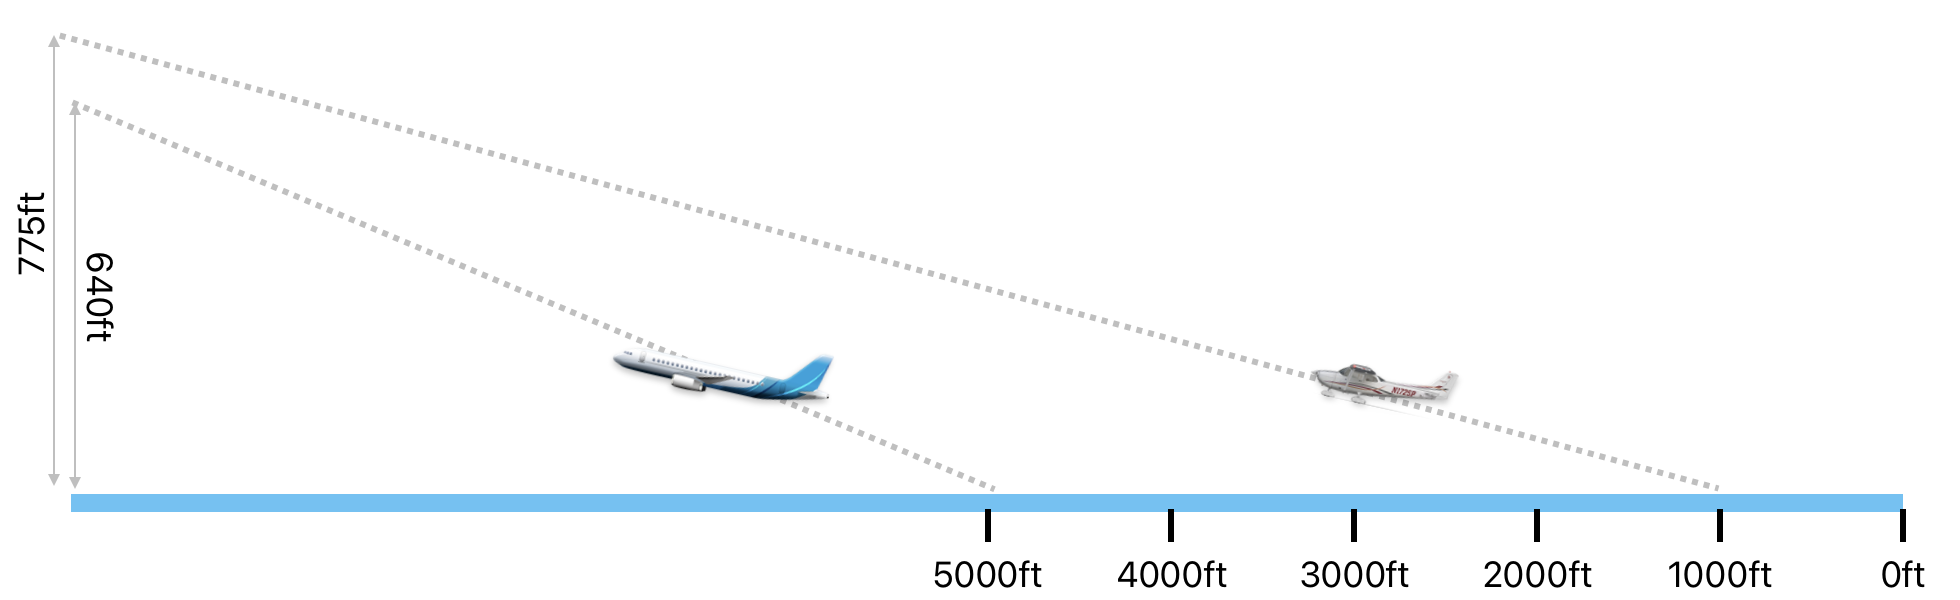
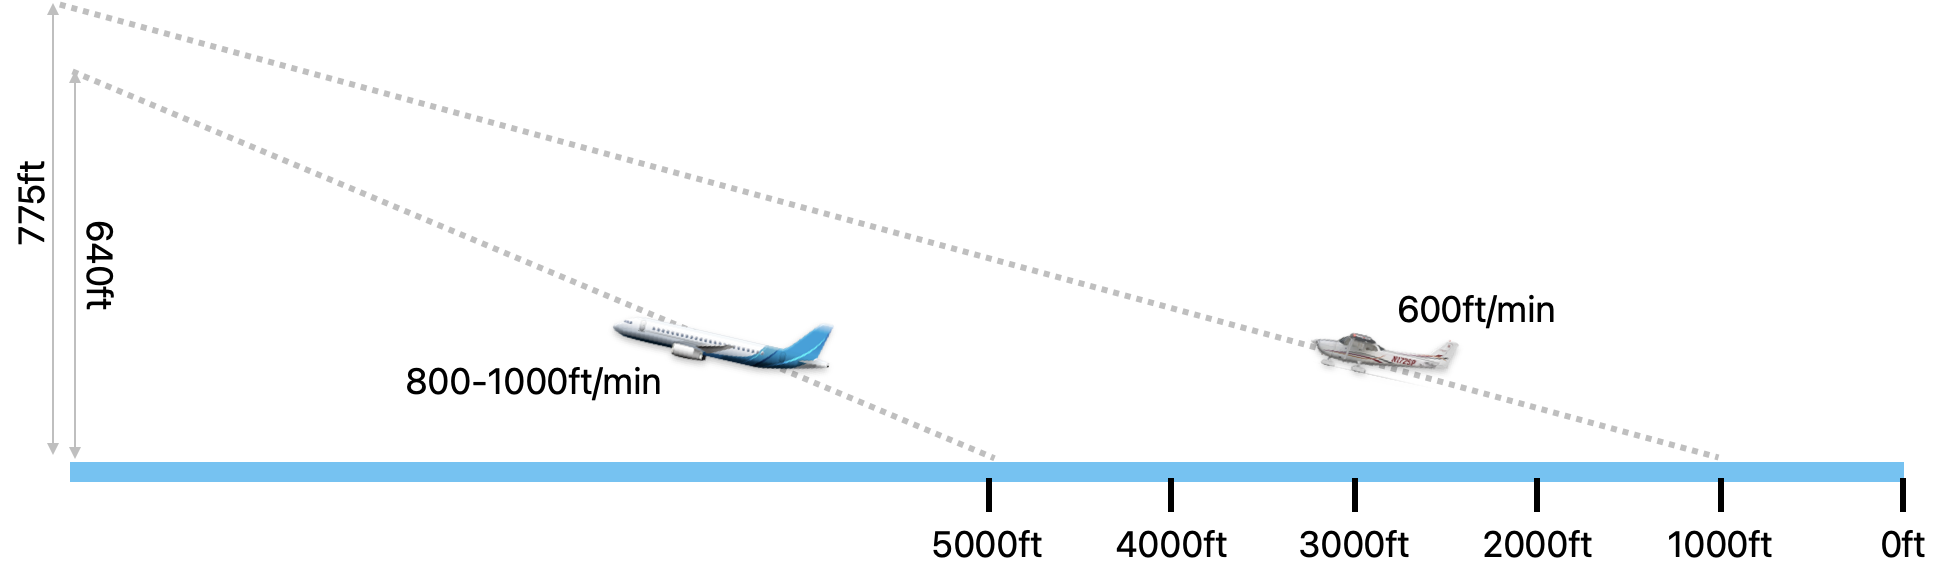
update

diff --git a/themes/aviation.css b/themes/aviation.css
@@ -80,6 +80,10 @@ img[alt~="video"] {
    height: 100%;
 }
 
+white {
+   color: #eeeeee;
+}
+
 red {
    color: red;
 }

diff --git a/topics/aviation/private-pilot/airport-operations/non-towered-airport.md b/topics/aviation/private-pilot/airport-operations/non-towered-airport.md
@@ -9,15 +9,14 @@ theme: aviation
 
 ---
 
+![bg](images/6s9-airport-view.png)
+
+---
+
 ![bg](images/home-town.png)
 
 <!--
 Question: how would you build an airport in your backyard?
-- Runway
-- Wind
-- Traffic pattern
-- Noise abatement
-- Communication
 -->
 --- 
 
@@ -25,7 +24,6 @@ Question: how would you build an airport in your backyard?
 - Runway
 - Wind
 - Traffic pattern
-- Noise abatement
 - Communication
 -->
 
@@ -35,7 +33,7 @@ Question: how would you build an airport in your backyard?
 
 ## Runway
 
-(Direction)
+![bg fit](images/runway-direction.png)
 
 ---
 
@@ -68,12 +66,6 @@ Standard pattern: left turn
 -->
 ---
 
-## VFR Procedure / Noise Abatement
-
-(BFI brochure)
-
----
-
 ## Communication - Common Traffic Advisory Frequency (CTAF)
 
 |Audience|Who you are|Where you are|What is your intention|
@@ -91,18 +83,56 @@ Standard pattern: left turn
 
 ---
 
+![bg](images/non-towered-airports-on-chart.png)
+
+<!--
+- Diamond Point Airstrip: residential community airpark, elevation, runway length
+- W28: code, lighting, CTAF, non-standard traffic pattern
+- 0S9: weather station, AOE
+-->
+
+---
+
+![bg](images/kors-airport-view.jpg)
+
+---
+
 ## Airport Beacon
 
-- Civilian Land Airport
-- Water Airport
-- Heliport
-- Military Airport
+|||
+|--|--|
+|Civilian Land Airport|<white>●</white><green>●</green>|
+|Water Airport|<white>●</white><yellow>●</yellow>|
+|Heliport|<white>●</white><yellow>●</yellow><green>●</green>|
+|Military Airport|<white>●</white><white>●</white><green>●</green>|
 
 ON when:
 - < VFR weather minimum
 - From sunset to sunrise
 
 ![bg right](images/airport-beacon.png)
+
+---
+
+## Taxiway Lights
+
+<left>
+
+- Taxiway
+  - Centerline (green)
+  - Edge (blue)
+- Runway
+  - Centerline (white)
+  - Edge (white)
+  - Threshold (green)
+- Runway End Identifier Light
+(REIL)
+
+</left>
+<right>
+
+![w:620](images/taxiway-light.png)
+![w:620](images/runway-light.png)
 
 ---
 
@@ -116,12 +146,16 @@ ON when:
 
 ---
 
-## Airport Information - On Chart
-
-(chart)
+## Chart Supplement
+![w:280](images/chart-supplement.png)
+![bg right:63% fit](images/0s9-chart-supplement.png)
 
 ---
 
-## Airport Information - In Supplyment
+## VFR Procedure / Noise Abatement
 
-(Supplyment)
+![center h:500](images/vfr-procedure.png)
+
+<!--
+https://cdn.kingcounty.gov/-/media/king-county/depts/executive-services/airport/pilot-information/bfi-vfr-routes-final-20210515.pdf
+-->

diff --git a/topics/aviation/private-pilot/airport-operations/towered-airport.md b/topics/aviation/private-pilot/airport-operations/towered-airport.md
@@ -31,13 +31,13 @@ theme: aviation
 
 <left>
 
-(hold-short-line)
-![w:320](images/taxiway-to-runway.png)
+![w:400](images/hold-short-line.png)
+![w:400](images/taxiway-to-runway.png)
 
 </left>
 <right>
 
-![w:700](images/taxiway.png)
+![w:620](images/taxiway.png)
 
 </right>
 
@@ -68,11 +68,14 @@ theme: aviation
 
 ## Weather Observation
 
-- ATIS
-- AWOS
-- ASOS
+- ATIS (Automatic Terminal Information Service)
+generated hourly by human recording
+- AWOS (Automated Weather Observation Sytem)
+latested
+- ASOS (Automated Surface Observing System)
+(by NOAA)
 
-(picture)
+![bg right:33%](images/weather-station.jpeg)
 
 ---
 
@@ -113,18 +116,6 @@ theme: aviation
 
 ---
 
-## Lighting
-
-- Runway
-  - Centerline
-  - Edge
-- Taxiway
-  - Centerline
-  - Edge
-- Runway End Identifier Light (REIL)
-
----
-
 ## Instrument Approach Lights
 
 ![](images/approach-light-2.png)
@@ -140,7 +131,7 @@ theme: aviation
 
 ---
 
-(video)
+[![video](https://img.youtube.com/vi/TB-DZ_7PXs4/0.jpg)](https://youtu.be/TB-DZ_7PXs4?t=77)
 
 <!--
 KBFI: 2x. Runway edge lights, PAPI (precision approach path indicator), approach lights, rotating beacon, taxiway lights
@@ -148,9 +139,7 @@ KBFI: 2x. Runway edge lights, PAPI (precision approach path indicator), approach
 
 ---
 
-## Airport Information - On Chart
-
-<left>
+## Airport Information
 
 - Runway illustrations
 - Name
@@ -162,24 +151,22 @@ KBFI: 2x. Runway edge lights, PAPI (precision approach path indicator), approach
 - Runway length
 - Unicom
 
-</left>
-<right>
-
-![w:700](images/koak-on-chart.png)
-
-</right>
+![bg right:60%](images/towered-airport-on-chart.png)
 
 <!--
 Towered-airport: blue
 -->
 ---
 
-## Airport Information - In Supplyment
+## Chart Supplement
 
-(Supplyment)
+![w:500](images/ksea-chart-supplement-1.png) ![w:500](images/ksea-chart-supplement-2.png)
 
 ---
 
 ## Notice to Airmen (NOTAMs)
 
-(examples)
+- Distant (D) NOTAMs: airport, navigation, services
+- Flight Data Center (FDC) NOTAMs: IFR procedures, TFRs
+
+![](images/notams.png)

diff --git a/topics/aviation/private-pilot/airport-operations/wake-turbulence.md b/topics/aviation/private-pilot/airport-operations/wake-turbulence.md
@@ -7,9 +7,11 @@ theme: aviation
 
 # Wake Turbulence
 
+![bg right](images/wake-turbulence.jpg)
+
 ---
 
-(video)
+[![video](https://img.youtube.com/vi/SVE-pVOQb48/0.jpg)](https://youtu.be/SVE-pVOQb48?t=280)
 
 ---
 
@@ -27,7 +29,7 @@ By-product of Lift
 
 ## Vortex
 
-Correlate to:
+Correlate to lift:
 - Weight
 - Angle of Attack
 
@@ -45,18 +47,9 @@ Correlate to:
 - Wingtip Vortex: more stable, last up to 3min
 - Jetwash: extreme turbulent, short duration
 
-(video)
+<br/><br/><br/><br/><br/>
 
----
-
-(simulation video)
-
----
-
-<br/><br/><br/><br/><br/><br/><br/><br/><br/><br/>
-Nov 8th 2008, a Learjet 45 crashed at Mexico City during final approach to land.
-
-![bg fit](images/learjet-45.png)
+[![right-bottom](https://img.youtube.com/vi/uXrnGiIMGLs/0.jpg)](https://www.youtube.com/watch?v=uXrnGiIMGLs)
 
 ---
 
@@ -81,7 +74,7 @@ Avoidance in the air:
 
 Only when lift is generated.
 
-![h:300](images/wake-turbulence-during-takeoff.png)
+![center](images/wake-turbulence-near-runway.png)
 
 ---
 
@@ -93,10 +86,6 @@ Only when lift is generated.
 ![](images/takeoff-with-wake-turbulence.png)
 
 <!--
-Climb gradient:
-- Jet: 800-1000ft/nm
-- DA40NG: 500ft/nm
-
 Complications:
 - Wind
 - Parallel runway
@@ -110,3 +99,7 @@ Complications:
 - Landing: touch down after jet's touch down point
 
 ![](images/landing-with-wake-turbulence.png)
+
+---
+
+[![video](https://img.youtube.com/vi/tZLXMKMgnS8/0.jpg)](https://www.youtube.com/watch?v=tZLXMKMgnS8)

diff --git a/topics/aviation/private-pilot/airport-operations/index.md b/topics/aviation/private-pilot/airport-operations/index.md
@@ -20,23 +20,37 @@ To safely & professionally operate at all kinds of airports, big and small.
 ## Prep
 
 - Read "Pilot's Handbook of Aeronautical Knowledge":
-  - [Chapter ?: Airport Operations][1]
+  - [Chapter 14: Airport Operations][1]
 
-[1]: 
+[1]: https://www.faa.gov/regulationspolicies/handbooksmanuals/aviation/phak/chapter-14-airport-operations
 
 <!--
 Instructor prep:
-  - airport supplyment
+  - FAA chart supplement
 -->
 
 ---
 
-## Backyard Airport
+![bg](images/6s9-airport-view.png)
+
+<!--
+Stehekin State airport, WA (6S9)
+-->
 
 ---
 
-## Major Airport
+![bg](images/kors-airport-view.jpg)
 
+<!--
+Eastsound airport, WA (KORS)
+-->
+---
+
+![bg](images/katl-airport-view.jpg)
+
+<!--
+KATL: Atlanta Airport, Georgia. World's busiest airport since 2005. 5 9000ft+ runways. 190+ gates. 800M aircraft operations in 2024. 1 aircraft operation every 40 second.
+-->
 
 ---
 
